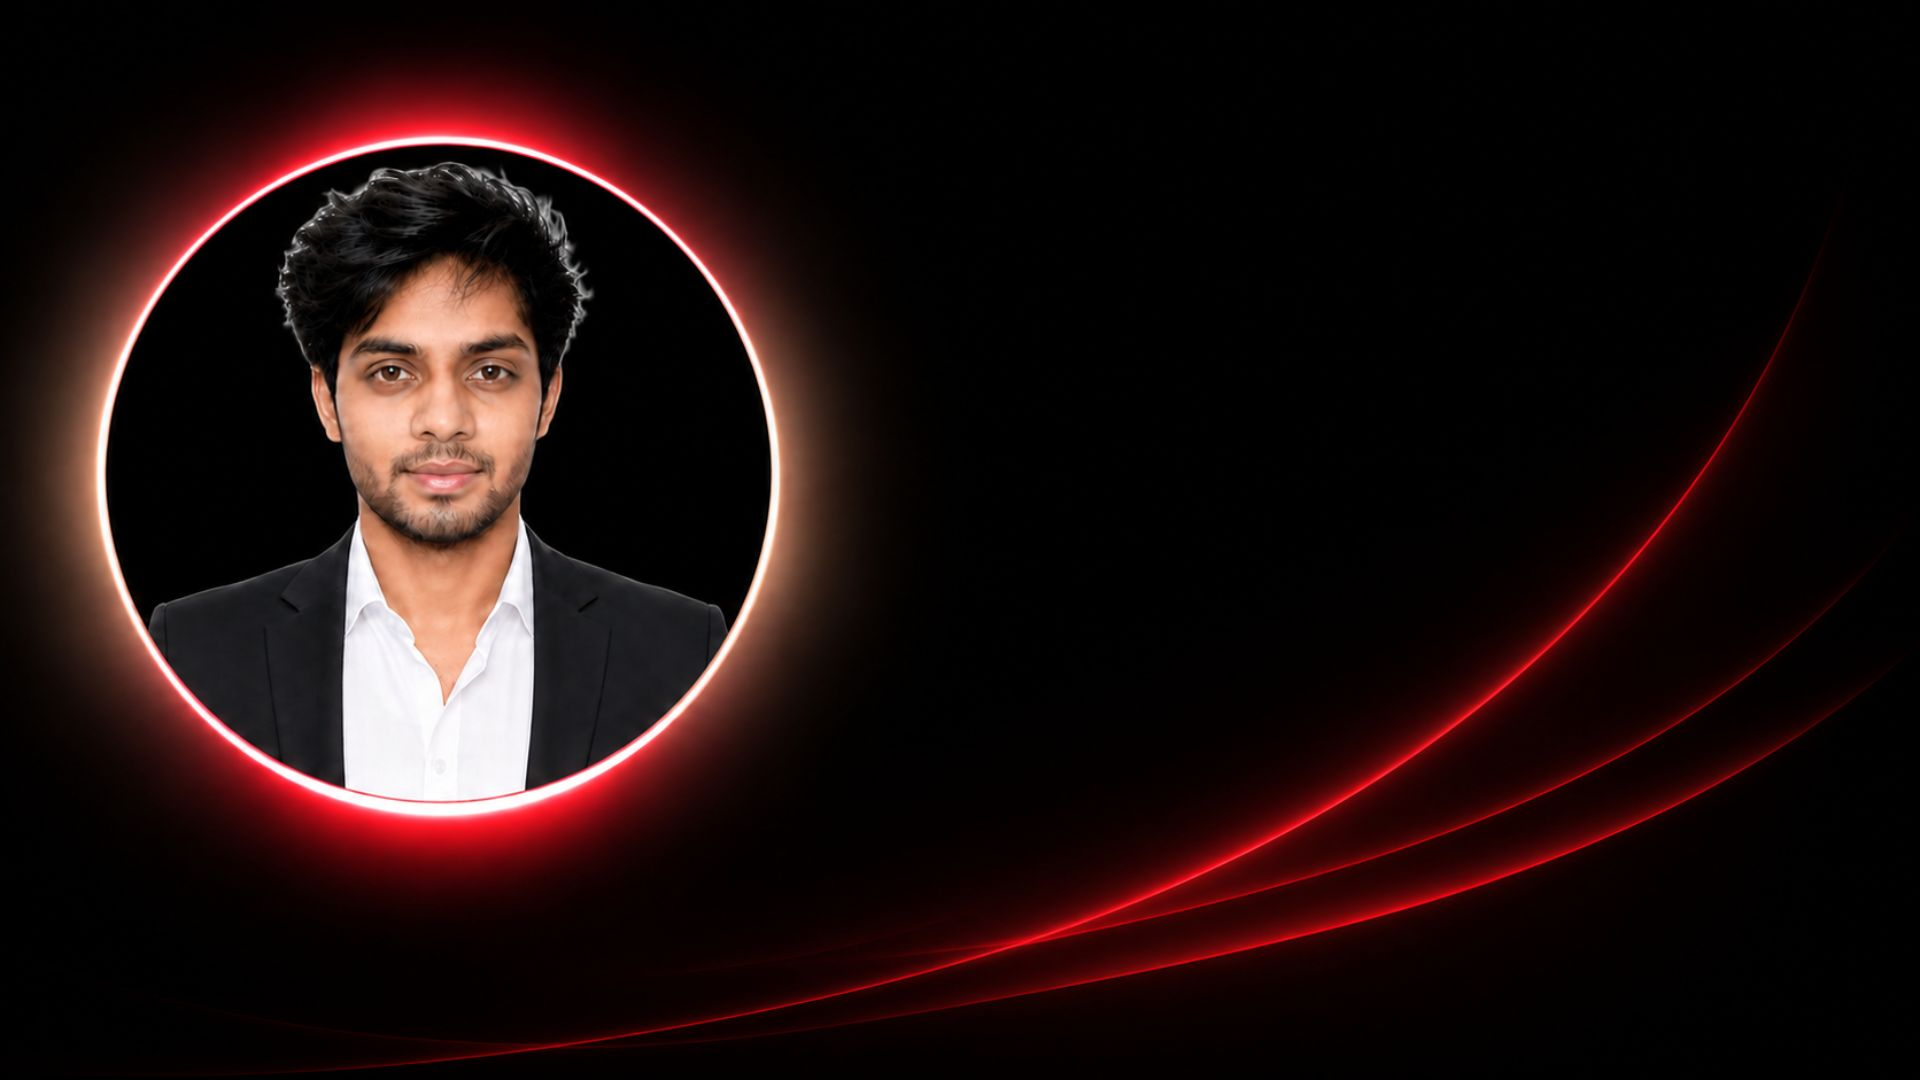
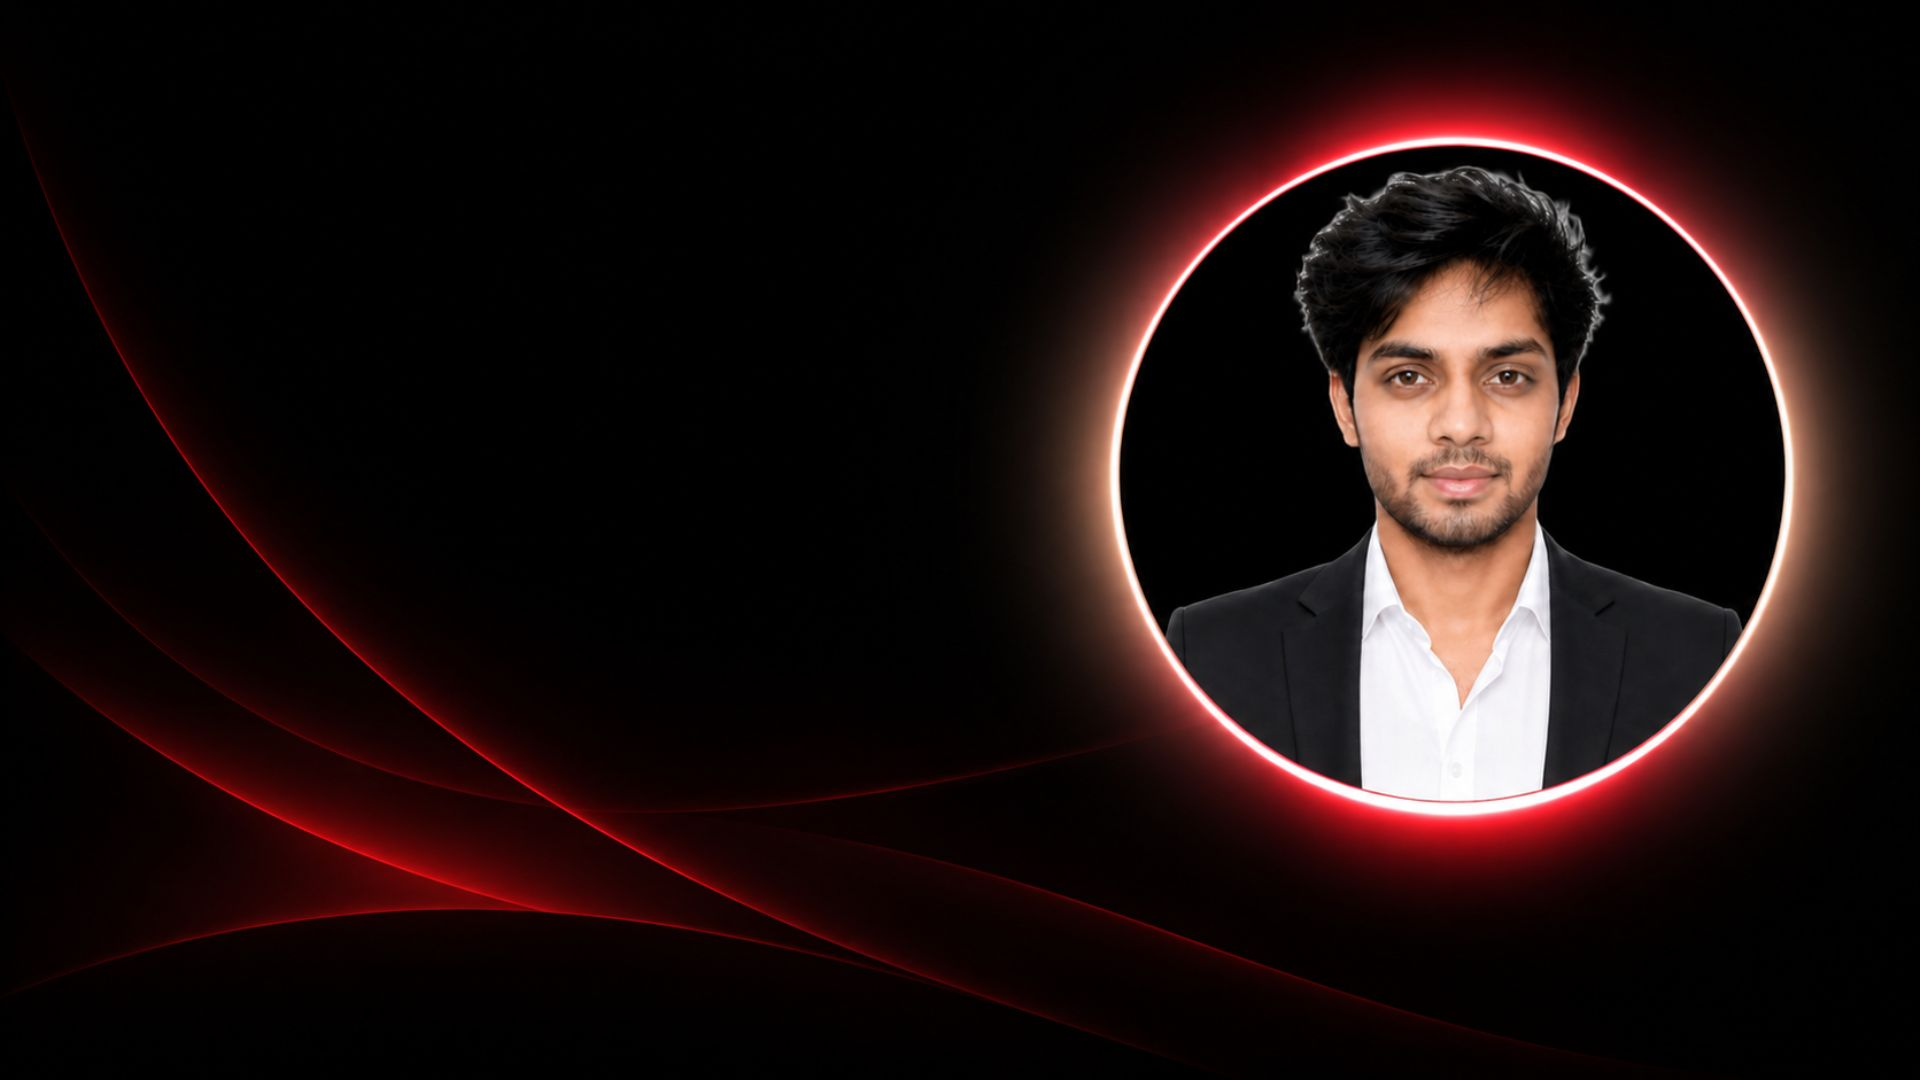
Fix Vercel Vite deployment

diff --git a/dist/index.html b/dist/index.html
@@ -12,8 +12,8 @@
       href="https://fonts.googleapis.com/css2?family=Poppins:wght@300;400;500;600;700&display=swap"
       rel="stylesheet"
     />
-    <script type="module" crossorigin src="/assets/index-sWaUStJ9.js"></script>
-    <link rel="stylesheet" crossorigin href="/assets/index-DooCkPu2.css">
+    <script type="module" crossorigin src="/assets/index-uN1wld2F.js"></script>
+    <link rel="stylesheet" crossorigin href="/assets/index-mrqR1vVX.css">
   </head>
   <body>
     <div id="root"></div>
